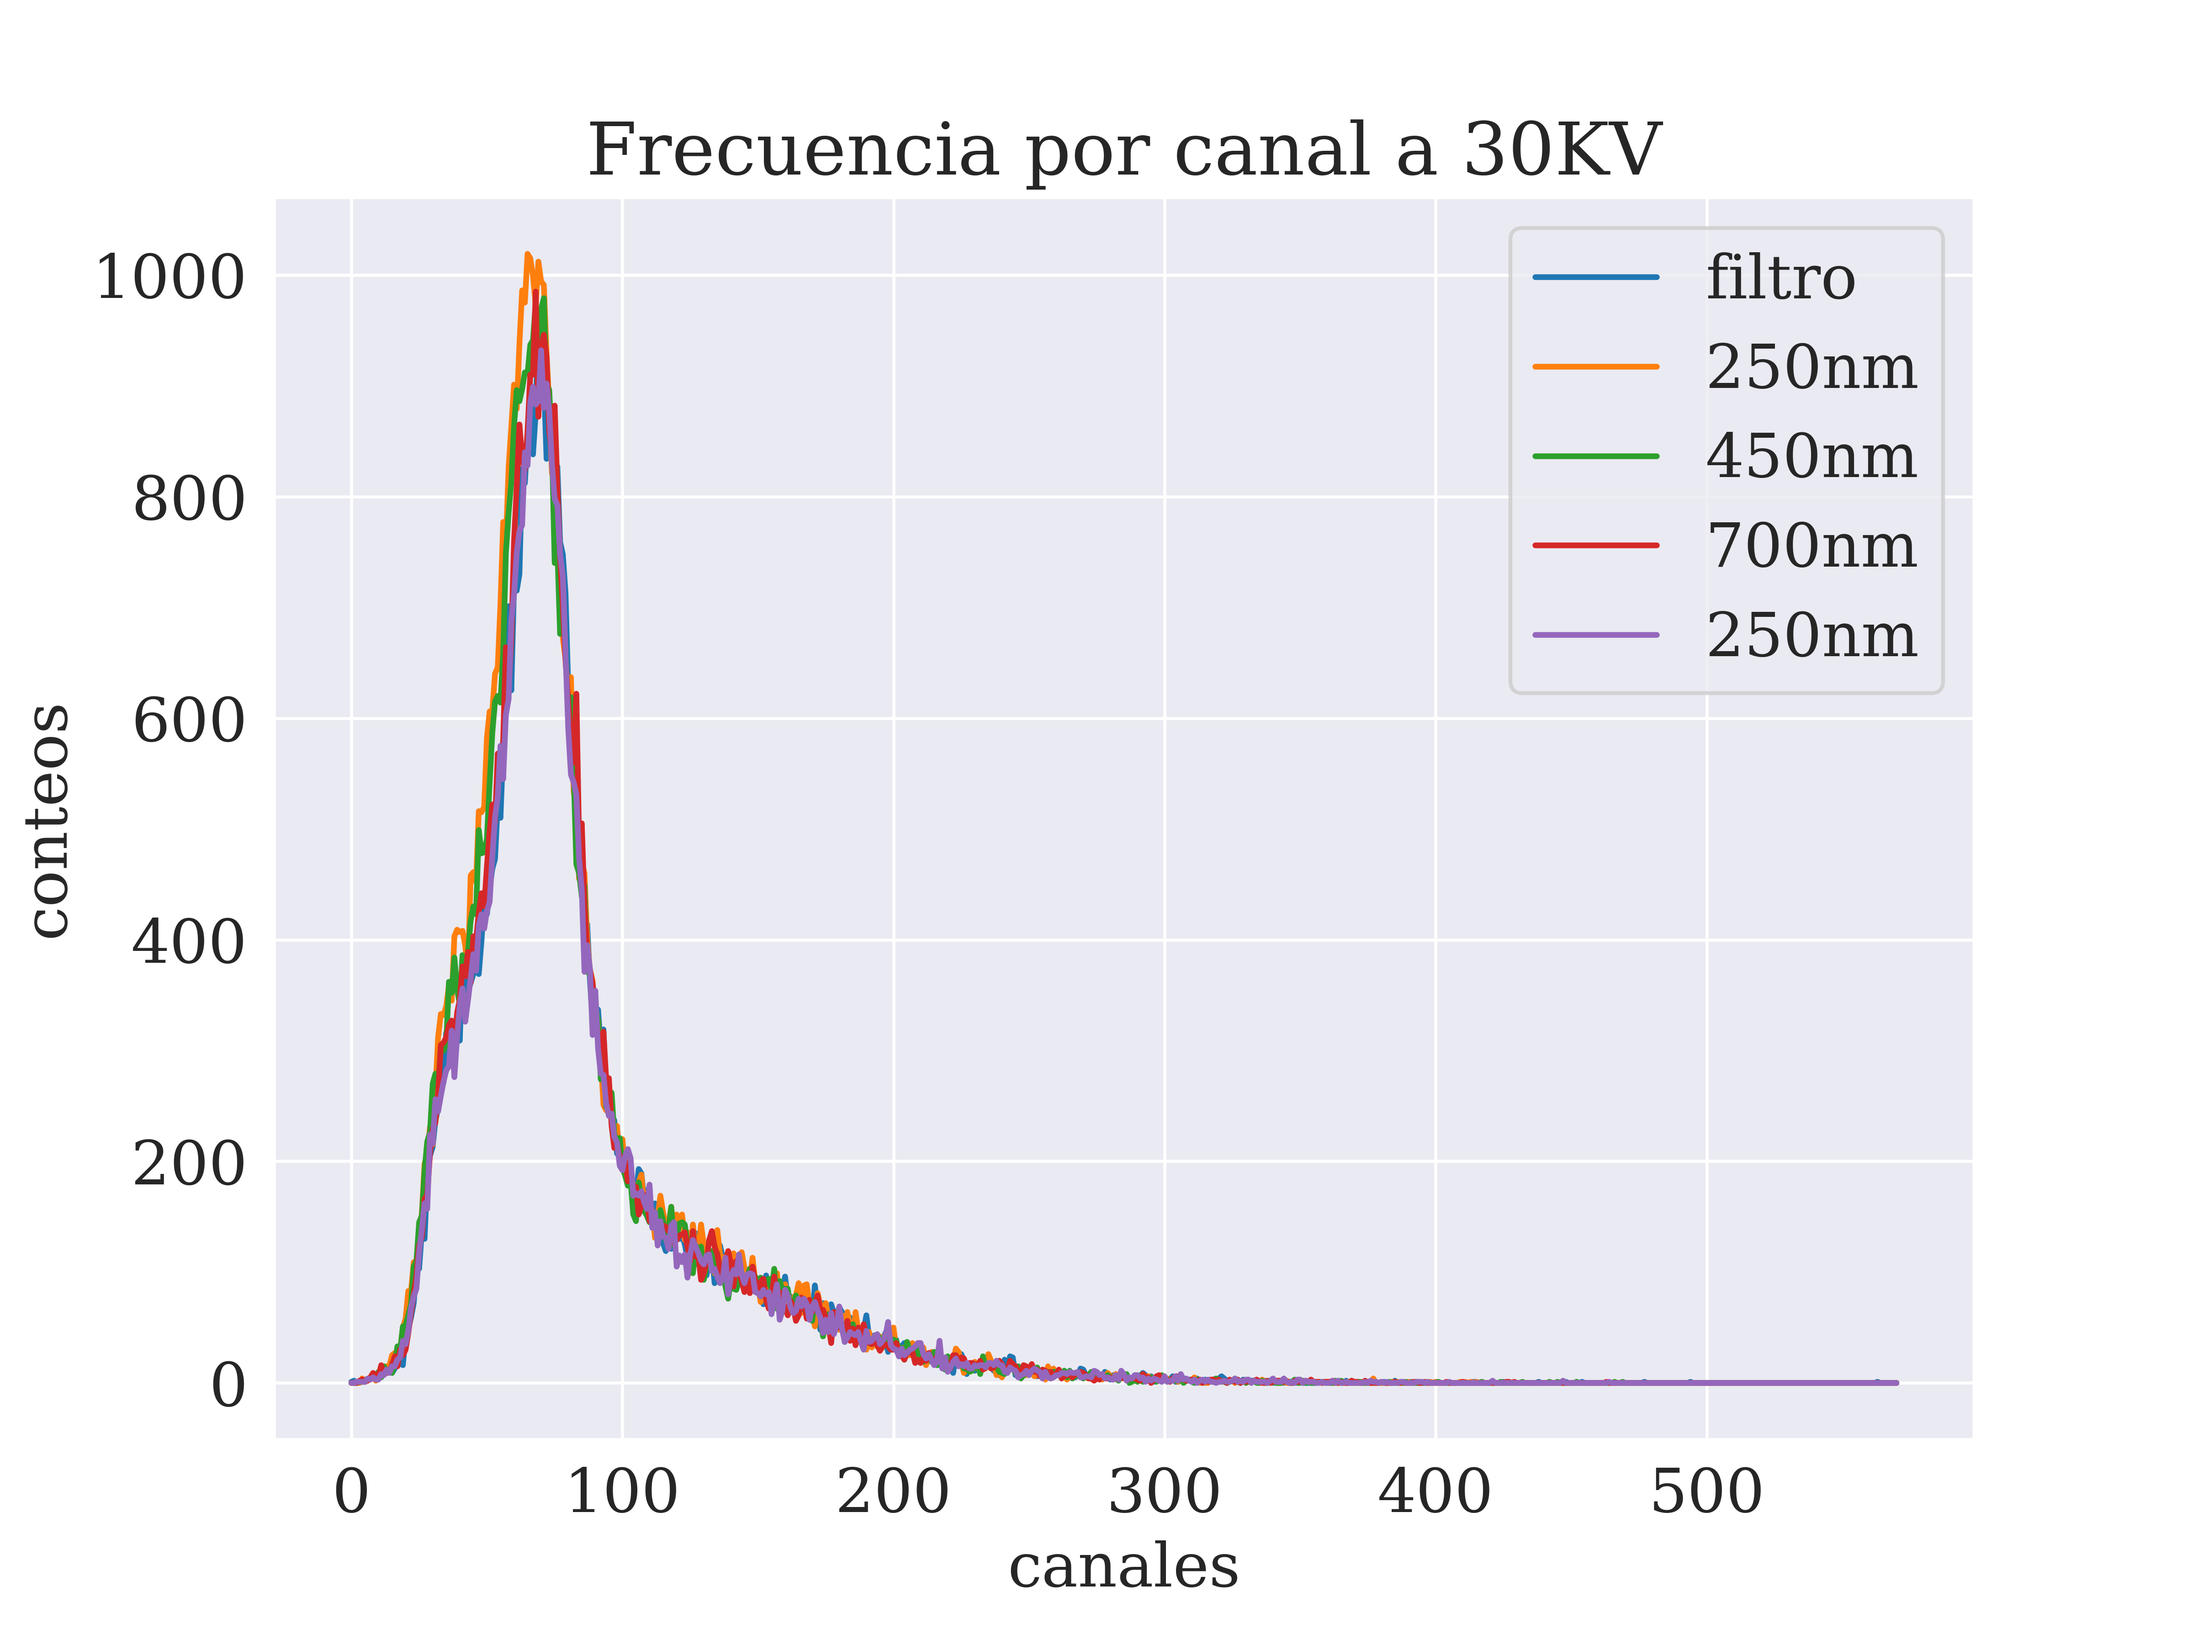
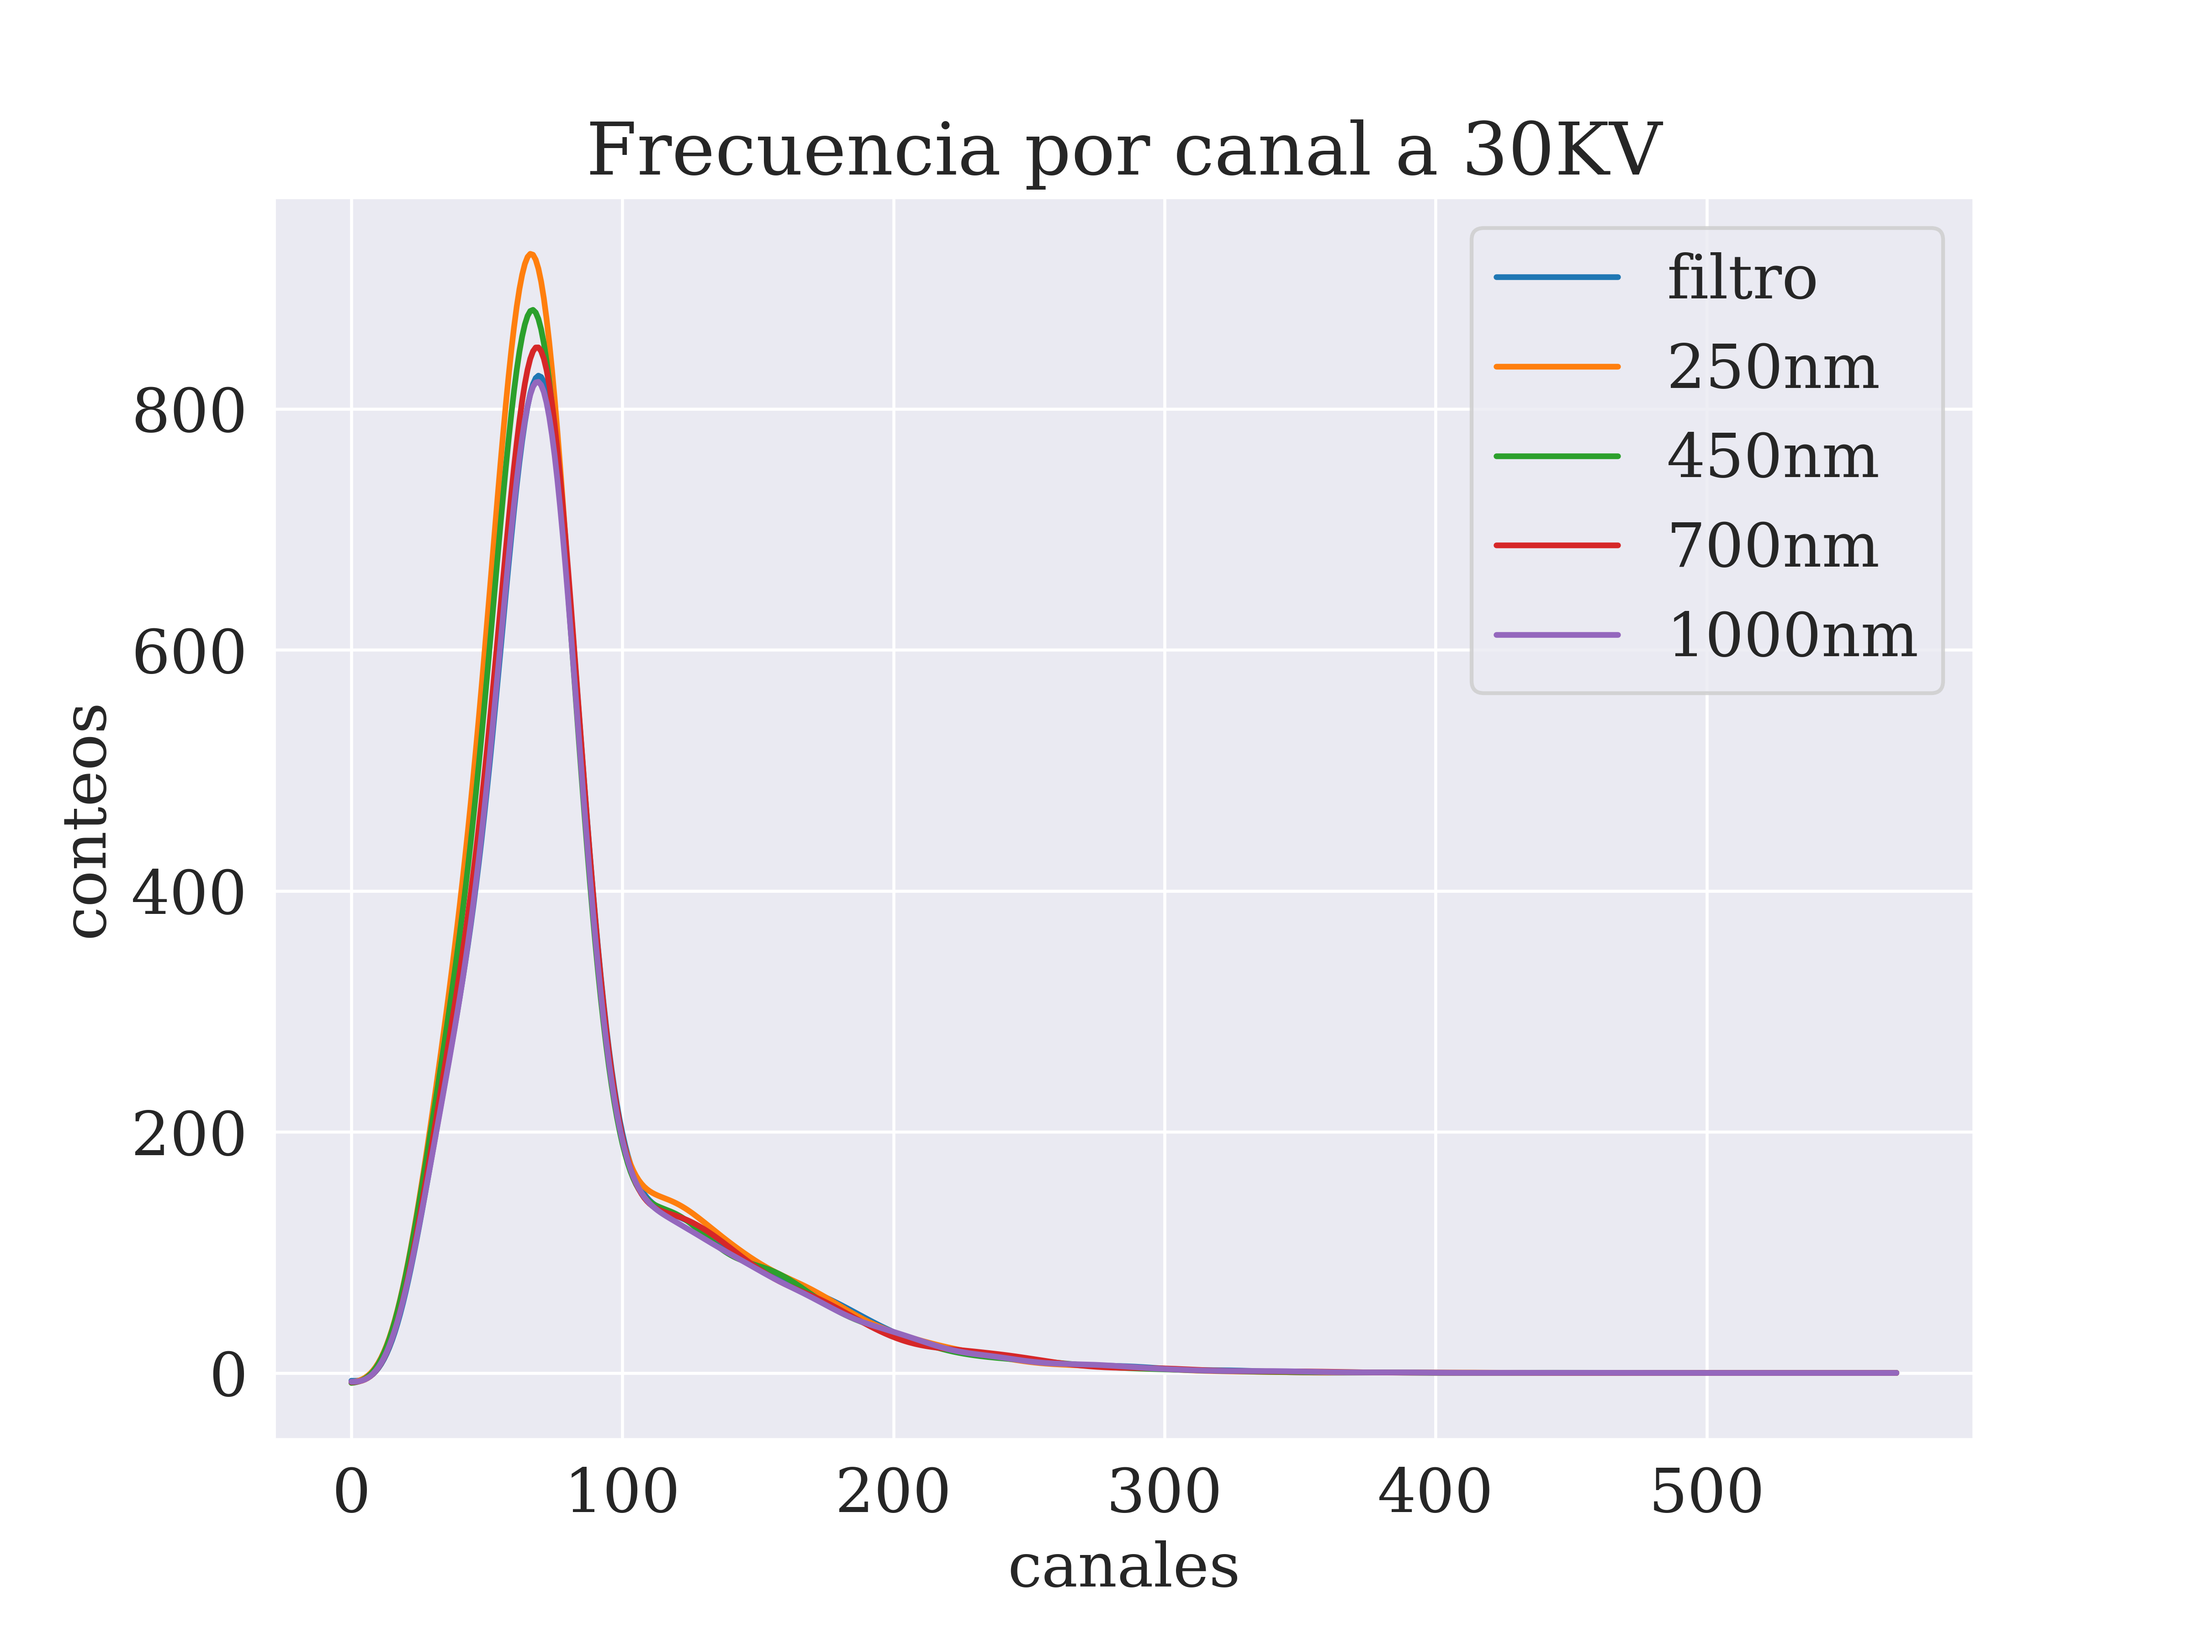
Filtro agregado al codigo y a los datos

diff --git a/Codigos/Analisis de datos/Analisis_proyecto_experimental.py b/Codigos/Analisis de datos/Analisis_proyecto_experimental.py
@@ -7,6 +7,8 @@ import pandas as pd
 from scipy.optimize import curve_fit
 from scipy import stats
 import os
+from scipy import signal
+
 
 
 #%%
@@ -23,7 +25,7 @@ bbox = dict(boxstyle ="round",facecolor='white')
 
 __Fpath__="../../"
 
-folder_path =  __Fpath__ + "Data\Proyecto experimental\Datos_Avila\Datos Grafeno\Interes\\"
+folder_path =  __Fpath__ + "Data\Proyecto experimental\Datos_Avila\Datos Grafeno\Interes2\\"
 
 images_folder_path = __Fpath__ + "Images\Proyecto Experimental\Datos_grafeno\\"
 
@@ -87,9 +89,21 @@ Selecting the data
 
 print(columnames)
 
-y_keys = [columnames [-1]] + columnames[:-1]
+y_keys =  [columnames [-1]] + columnames[:-1]
+#y_keys = columnames
 
 print(y_keys)
+#%%
+
+"""
+Noise reduction 
+"""
+b, a = signal.butter(3, 0.05)
+
+for key in y_keys:
+    y = df[key]
+    yy = signal.filtfilt(b, a, y)
+    df[key] = yy
 
 #%%
 """
@@ -107,7 +121,7 @@ fig, ax = plt.subplots(figsize=(8, 6))
 x_key = "canales"
 x_label = "canales"
 y_label = "conteos"
-plot_labels = ["filtro",'250nm dos placas', '250nm']
+plot_labels = ["filtro", '100nm', '150nm', '200nm', '250nm', '300nm']
 title = "Frecuencia por canal a 30KV"
 
 # Call the function to plot data on multiple axes
@@ -116,7 +130,7 @@ plot_dataframe(df, x_key, y_keys, x_label, y_label, plot_labels, ax, title)
 """
 Saving image
 """ 
-name = "placas_sumadas_vs_individual.png"
+name = "placas_individuales.png"
 plt.savefig(images_folder_path +  name,dpi=600)
 
 
